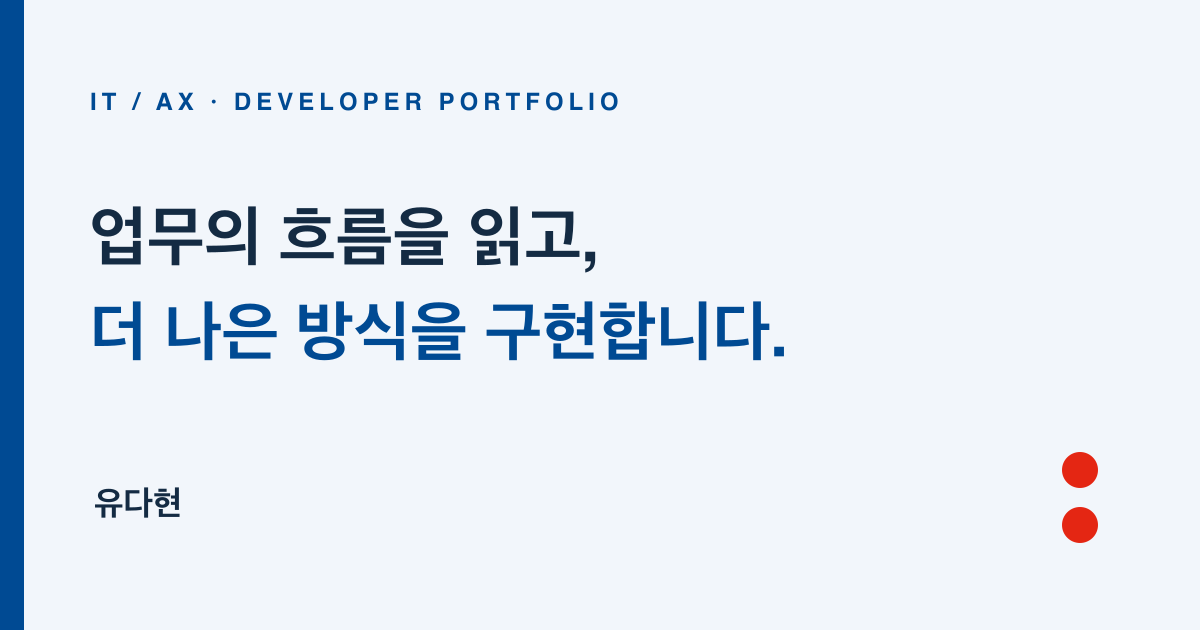
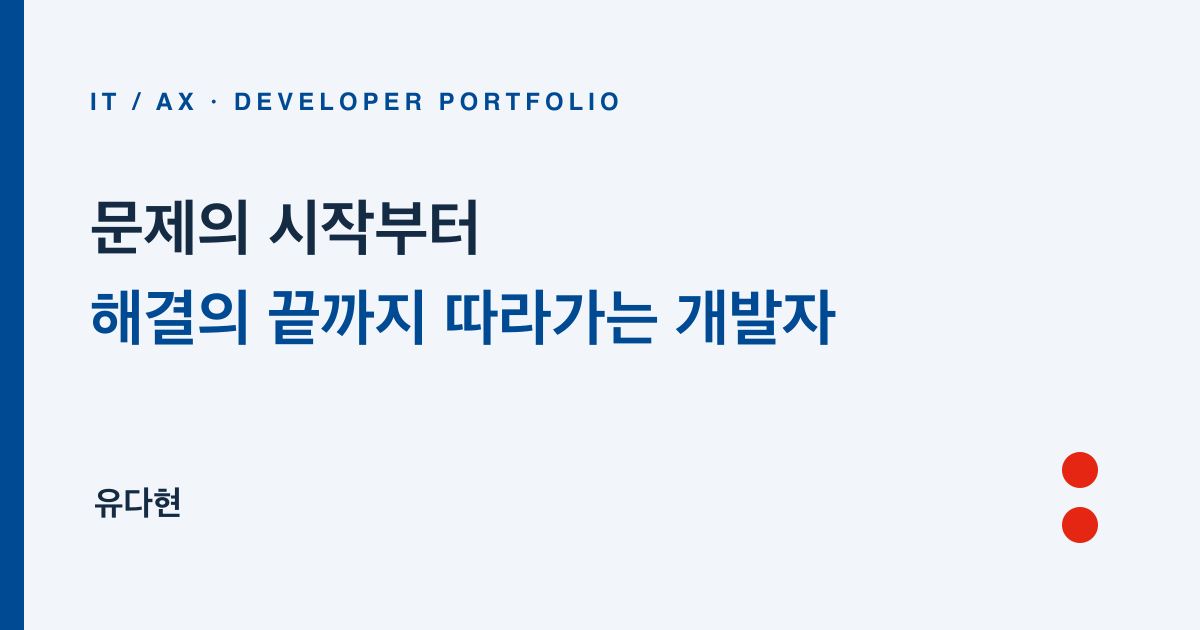
copy: emphasize end-to-end problem solving

Changed region(s): [[0.0617, 0.4524, 0.7092, 0.573], [0.0617, 0.3016, 0.4933, 0.4222]]

diff --git a/app/layout.tsx b/app/layout.tsx
@@ -5,9 +5,9 @@ import './brand.css';
 
 export const metadata: Metadata = {
   title: '유다현 포트폴리오 | IT · AX',
-  description: '업무의 흐름을 읽고, 더 나은 방식을 구현하는 개발자. 유다현의 개발 프로젝트와 시스템 안정성·데이터·AI 활용을 위한 문제 해결 과정입니다.',
+  description: '문제의 시작부터 해결의 끝까지 따라가는 개발자. 유다현의 개발 프로젝트와 시스템 안정성·데이터·AI 활용을 위한 문제 해결 과정입니다.',
   metadataBase: new URL('https://wsgroup.dahyeon.kr'),
-  openGraph: { title: '유다현 | IT · AX 개발 포트폴리오', description: '업무의 흐름을 읽고, 더 나은 방식을 구현하는 개발자', images: [{ url: '/assets/portfolio-share.png', width: 1200, height: 630 }] },
+  openGraph: { title: '유다현 | IT · AX 개발 포트폴리오', description: '문제의 시작부터 해결의 끝까지 따라가는 개발자', images: [{ url: '/assets/portfolio-share.png', width: 1200, height: 630 }] },
   twitter: { card: 'summary_large_image', images: ['/assets/portfolio-share.png'] },
   icons: {
     icon: [

diff --git a/app/page.tsx b/app/page.tsx
@@ -107,7 +107,7 @@ export default function Home() {
           </section>
         </div>
         <div className="profile-details">
-          <h1 id="portfolio-title"><span>업무의 흐름을 읽고,</span><span><em>더 나은 방식</em>을</span><span>구현하는 개발자<span className="title-colon" aria-hidden="true">:</span></span></h1>
+          <h1 id="portfolio-title" aria-label="문제의 시작부터 해결의 끝까지 따라가는 개발자"><span>문제의 시작부터</span><span>해결의 <em>끝까지</em></span><span>따라가는 개발자<span className="title-colon" aria-hidden="true">:</span></span></h1>
           <PersonalStrengths />
         </div>
         <BrandLogo />
